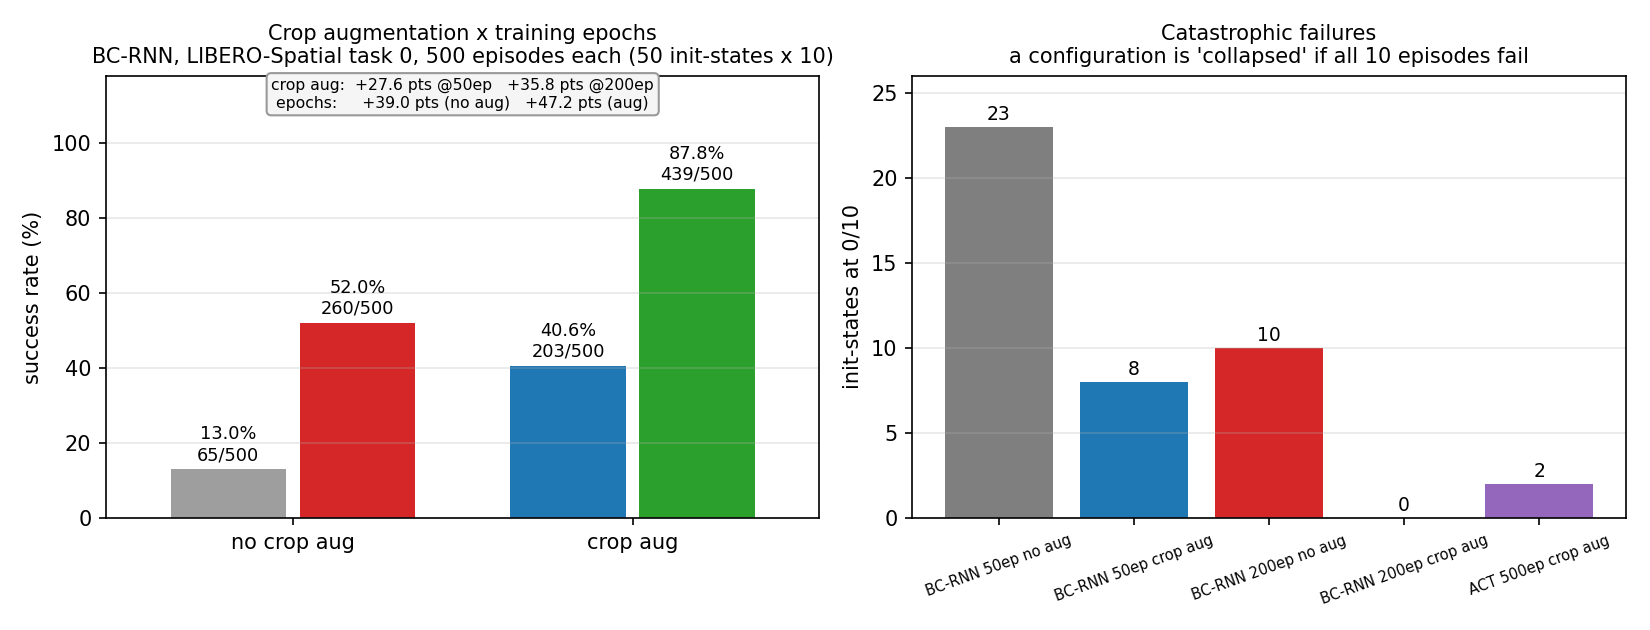
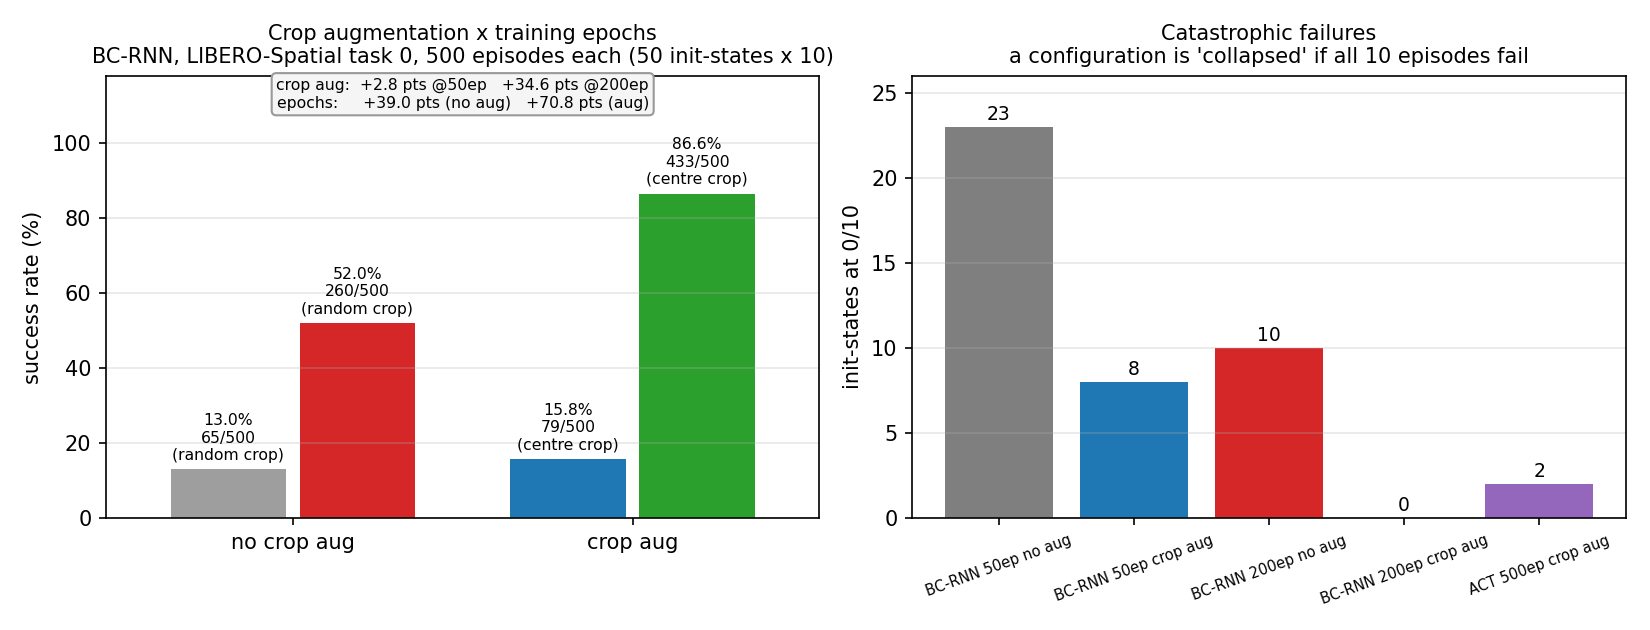
fix: correct duplicate 2.2 heading, make the 2x2 figure use centre-crop data to match the table, add collapse-by-view figure

diff --git a/scripts/plot_ablation.py b/scripts/plot_ablation.py
@@ -62,7 +62,15 @@ def parse_log(path: Path) -> list[dict]:
     return out
 
 
-def fig_ablation(res: dict, outdir: Path) -> None:
+def fig_ablation(res: dict, outdir: Path, centre_data: dict | None = None) -> None:
+    """2x2 grid plus collapse counts.
+
+    For the two crop-aug arms the centre-crop measurement is preferred, so the
+    figure agrees with the headline table in README 2.1. Where only the
+    random-crop run exists, the label says which view the bar came from -- the two
+    differ by up to 25 points (README 2.2), so a silent mix-up would be misleading.
+    """
+    centre_data = centre_data or {}
     fig, (ax, ax2) = plt.subplots(1, 2, figsize=(11, 4.2),
                                   gridspec_kw={"width_ratios": [1, 1]})
 
@@ -75,11 +83,15 @@ def fig_ablation(res: dict, outdir: Path) -> None:
     cols = {"noaug50": "#9e9e9e", "noaug200": "#d62728",
             "aug50": "#1f77b4", "aug200": "#2ca02c"}
     for k in cells:
-        v = rate(res[k]) * 100
-        s = sum(res[k].values())
+        src, view = res, "random crop"
+        if k in centre_data:
+            src, view = centre_data, "centre crop"
+        v = rate(src[k]) * 100
+        s = sum(src[k].values())
         x = centre[k] + offset[k]
         ax.bar([x], [v], color=cols[k], width=0.34)
-        ax.text(x, v + 2.5, f"{v:.1f}%\n{s}/500", ha="center", fontsize=8.5)
+        ax.text(x, v + 2.5, f"{v:.1f}%\n{s}/500\n({view})", ha="center",
+                fontsize=7.5)
     ax.set_xticks([0, 1]); ax.set_xticklabels(["no crop aug", "crop aug"])
     ax.set_xlim(-0.55, 1.55)
     ax.set_ylim(0, 118)
@@ -89,11 +101,14 @@ def fig_ablation(res: dict, outdir: Path) -> None:
                  fontsize=10)
     ax.grid(alpha=0.3, axis="y")
 
-    # annotate the two marginal effects
-    e50 = rate(res["aug50"]) - rate(res["noaug50"])
-    e200 = rate(res["aug200"]) - rate(res["noaug200"])
+    # annotate the marginal effects, using the same view as the bars
+    def pick(k):
+        return centre_data[k] if k in centre_data else res[k]
+
+    e50 = rate(pick("aug50")) - rate(res["noaug50"])
+    e200 = rate(pick("aug200")) - rate(res["noaug200"])
     a_noaug = rate(res["noaug200"]) - rate(res["noaug50"])
-    a_aug = rate(res["aug200"]) - rate(res["aug50"])
+    a_aug = rate(pick("aug200")) - rate(pick("aug50"))
     ax.text(0.5, 0.995,
             f"crop aug:  +{e50*100:.1f} pts @50ep   +{e200*100:.1f} pts @200ep\n"
             f"epochs:     +{a_noaug*100:.1f} pts (no aug)   +{a_aug*100:.1f} pts (aug)",
@@ -117,6 +132,36 @@ def fig_ablation(res: dict, outdir: Path) -> None:
 
     fig.tight_layout()
     fig.savefig(outdir / "ablation_2x2.png", dpi=150)
+    plt.close(fig)
+
+
+def fig_collapses_centre(res: dict, centre: dict, outdir: Path) -> None:
+    """Collapse counts per policy, as-trained vs centre-crop view.
+
+    Kept separate from fig_ablation because the two panels there serve different
+    purposes: this one exists to make the 8 -> 27 jump unmissable.
+    """
+    keys = [k for k in ("aug50", "aug200") if k in centre]
+    fig, ax = plt.subplots(figsize=(7.2, 4.0))
+    w = 0.35
+    xs = range(len(keys))
+    r = [sum(1 for v in res[k].values() if v == 0) for k in keys]
+    c = [sum(1 for v in centre[k].values() if v == 0) for k in keys]
+    ax.bar([x - w / 2 for x in xs], r, w, label="random crop", color="#ff7f0e")
+    ax.bar([x + w / 2 for x in xs], c, w, label="centre crop", color="#1f77b4")
+    for x, a, b in zip(xs, r, c):
+        ax.text(x - w / 2, a + 0.4, str(a), ha="center", fontsize=10)
+        ax.text(x + w / 2, b + 0.4, str(b), ha="center", fontsize=10)
+    ax.set_xticks(list(xs))
+    ax.set_xticklabels(["BC-RNN 50ep", "BC-RNN 200ep"])
+    ax.set_ylabel("init-states at 0/10")
+    ax.set_ylim(0, 32)
+    ax.set_title("Collapse is view-dependent for the undertrained arm only\n"
+                 "50ep: 8 -> 27 collapsed.  200ep: 0 -> 1.", fontsize=10)
+    ax.legend(fontsize=9)
+    ax.grid(alpha=0.3, axis="y")
+    fig.tight_layout()
+    fig.savefig(outdir / "collapses_by_view.png", dpi=150)
     plt.close(fig)
 
 
@@ -258,12 +303,6 @@ def main() -> None:
     if not res:
         raise SystemExit("no result CSVs found")
 
-    fig_ablation(res, a.outdir)
-    fig_per_state(res, a.outdir)
-    print(f"ablation_2x2.png            {len(res)} policies")
-    print(f"per_init_state_all_runs.png {len(res)} policies")
-
-    # centre-crop re-evaluation of the two crop-aug arms
     centre = {}
     for key, _lab, csvname in CENTER_ARMS:
         f = REPO / "results" / csvname
@@ -271,9 +310,18 @@ def main() -> None:
             centre[key] = load(f)
         else:
             print(f"skip {key} centre: missing {f}")
+
+    fig_ablation(res, a.outdir, centre_data=centre)
+    fig_per_state(res, a.outdir)
+    print(f"ablation_2x2.png            {len(res)} policies"
+          + (f" (aug arms shown under centre crop)" if centre else ""))
+    print(f"per_init_state_all_runs.png {len(res)} policies")
+
     if centre:
         fig_center_effect(res, centre, a.outdir)
+        fig_collapses_centre(res, centre, a.outdir)
         print(f"test_randomizer_effect.png  {len(centre)} arms")
+        print(f"collapses_by_view.png       {len(centre)} arms")
         print("\n=== 复核：随机裁剪 vs 中心裁剪 ===")
         for key in centre:
             sr = sum(res[key].values())

diff --git a/README.md b/README.md
@@ -103,6 +103,8 @@ difference is which 76×76 window the policy sees.
 
 ![test-time crop effect](media/figures/test_randomizer_effect.png)
 
+![collapse counts by view](media/figures/collapses_by_view.png)
+
 Two conclusions, and the first one corrected a wrong assumption of mine:
 
 1. **The 87.8% is real.** I had expected the score to collapse toward the no-aug
@@ -121,9 +123,10 @@ substantially borrowed from test-time input variability, and the borrow disappea
 as training converges.** I would not have detected this without deliberately
 breaking a component of my own evaluation.
 
-### 2.2 What augmentation actually buys: the floor, not the ceiling
+### 2.3 Where the augmentation gain sits, by init-state
 
-Breaking the 35.8-point aug gain at 200 epochs down by init-state:
+Breaking the 35.8-point aug gain at 200 epochs down by init-state (random-crop
+view, the only one where both arms are directly comparable):
 
 | group | no aug | crop aug | episodes gained | share of the 35.8 |
 |---|---|---|---|---|
@@ -144,7 +147,7 @@ with **zero** collapsed init-states.
 
 ![per-init-state](media/figures/per_init_state_all_runs.png)
 
-### 2.3 Training dynamics — the part I did not expect
+### 2.4 Training dynamics — the part I did not expect
 
 ![log curves](media/figures/train_log_curves_all.png)
 
@@ -174,7 +177,7 @@ I am not stating a general rule: *within* the no-aug family, higher loss goes wi
 higher closed-loop score (13.0% → 52.0% as loss goes 21.9 → 30.3); *across*
 families, the lower-loss run has the higher score. Both are in the table above.
 
-### 2.4 ACT vs BC-RNN
+### 2.5 ACT vs BC-RNN
 
 ACT is **8.2 points ahead** (96.0% vs 87.8%) at the same 500-episode protocol, and
 the failure structure differs — see §4. Two caveats: ACT has 84M parameters vs
@@ -187,7 +190,7 @@ I could not find an intermediate value (5/10, 8/10) anywhere in its CSV. That is
 consistent with a systematic failure mode rather than stochastic noise, but I have
 not verified it (§8).
 
-### 2.5 Rollout clips
+### 2.6 Rollout clips
 
 `media/rollouts/` is **intentionally empty**. 89 clips exist in the working
 directory but none are published: the directory was written by more than one run,
@@ -320,6 +323,8 @@ docs/notes/                     dated lab notes, chronological, unedited
 results/                        every measured CSV + a README on what is missing
 logs/                           BC-RNN training logs (text), ACT log (csv)
 media/figures/                  six figures, all generated from committed logs
+                                (2x2, per-init-state, log curves, ACT curve,
+                                test-time-crop effect, collapse counts)
 media/rollouts/                 empty on purpose, see the README there
 env/requirements.txt            pinned environment
 ```
